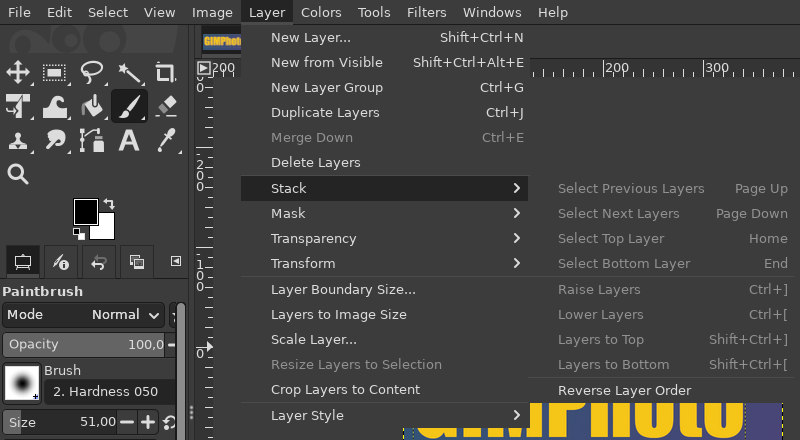
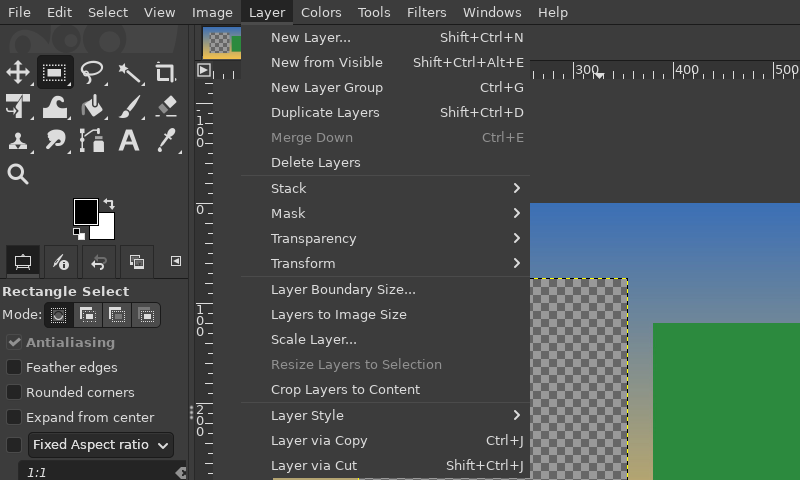
Layer via Copy / Cut on Ctrl+J / Ctrl+Shift+J (#15)
New plug-in plugins/layer-via: with a selection, a new layer from the
selected area, in place (Cut also clears it from the original, which gets
transparency); without one, Layer via Copy duplicates the layers. The
selection is dropped and the new layer selected, as in Photoshop.

The keymap moves Ctrl+J from Duplicate Layers (back on GIMP's
Shift+Ctrl+D) to gimphoto-layer-via-copy and adds Ctrl+Shift+J;
tools/make_keymap.py accepts GIMPhoto's own plug-in procedures as
actions. Smoke test: tests/smoke_layer_via.py.

diff --git a/plugins/layer-via/layer-via.py b/plugins/layer-via/layer-via.py
@@ -1,0 +1,73 @@
+#!/usr/bin/env python3
+#
+# Layer via Copy / Layer via Cut: Photoshop's Ctrl+J and Ctrl+Shift+J.
+#
+#   Layer > Layer via Copy    new layer from the selected area (no selection:
+#                             duplicate the layer)
+#   Layer > Layer via Cut     the same, and clear that area from the layer
+#
+# GIMPhoto's default shortcuts (defaults/photoshop-keymap.tsv) put them on
+# Ctrl+J and Ctrl+Shift+J. Each is one undo step. Logic: layer_via.py.
+#
+# This program is free software: you can redistribute it and/or modify
+# it under the terms of the GNU General Public License as published by
+# the Free Software Foundation; either version 3 of the License, or
+# (at your option) any later version.
+
+import os
+import sys
+
+import gi
+
+gi.require_version("Gimp", "3.0")
+from gi.repository import Gimp, GLib
+
+sys.path.insert(0, os.path.dirname(os.path.abspath(__file__)))
+from layer_via import layer_via
+
+COPY_PROC = "gimphoto-layer-via-copy"
+CUT_PROC = "gimphoto-layer-via-cut"
+MENU = "<Image>/Layer"
+
+
+def run(procedure, run_mode, image, drawables, config, data):
+    image.undo_group_start()
+    try:
+        layer_via(image, cut=procedure.get_name() == CUT_PROC)
+    except ValueError as e:
+        return procedure.new_return_values(Gimp.PDBStatusType.EXECUTION_ERROR, GLib.Error(str(e)))
+    finally:
+        image.undo_group_end()
+    Gimp.displays_flush()
+    return procedure.new_return_values(Gimp.PDBStatusType.SUCCESS, GLib.Error())
+
+
+class LayerVia(Gimp.PlugIn):
+    def do_set_i18n(self, procname):
+        return False
+
+    def do_query_procedures(self):
+        return [COPY_PROC, CUT_PROC]
+
+    def do_create_procedure(self, name):
+        procedure = Gimp.ImageProcedure.new(self, name, Gimp.PDBProcType.PLUGIN, run, None)
+        procedure.set_image_types("*")
+        procedure.set_attribution("GIMPhoto", "GIMPhoto contributors", "2026")
+        if name == COPY_PROC:
+            # several layers: duplicated, as Ctrl+J without a selection
+            procedure.set_sensitivity_mask(
+                Gimp.ProcedureSensitivityMask.DRAWABLE | Gimp.ProcedureSensitivityMask.DRAWABLES
+            )
+            label = "Layer via _Copy"
+            blurb = "New layer from the selected area (no selection: duplicate the layer)"
+        else:
+            procedure.set_sensitivity_mask(Gimp.ProcedureSensitivityMask.DRAWABLE)
+            label = "Layer via Cu_t"
+            blurb = "New layer from the selected area, cleared from the layer"
+        procedure.set_menu_label(label)
+        procedure.set_documentation(blurb, blurb + " (Photoshop's Layer via Copy / Cut).", name)
+        procedure.add_menu_path(MENU)
+        return procedure
+
+
+Gimp.main(LayerVia.__gtype__, sys.argv)

diff --git a/tests/smoke_layer_via.py b/tests/smoke_layer_via.py
@@ -1,0 +1,62 @@
+# Run by scripts/smoke inside the installed GIMPhoto (python-fu-eval):
+# Layer via Copy / Cut (Photoshop's Ctrl+J / Ctrl+Shift+J) on an opaque
+# layer, as opened from a JPEG. Writes "ok" or a reason to the file in
+# GIMPHOTO_SMOKE_OUT.
+import os
+import sys
+
+sys.path.insert(0, os.environ.get("GIMPHOTO_LAYER_VIA", "/app/lib/gimp/3.0/plug-ins/layer-via"))
+from gi.repository import Gegl, Gimp
+
+from layer_via import layer_via
+
+
+def setup():
+    img = Gimp.Image.new(300, 200, Gimp.ImageBaseType.RGB)
+    layer = Gimp.Layer.new(img, "photo", 300, 200, Gimp.ImageType.RGB_IMAGE, 100, Gimp.LayerMode.NORMAL)
+    img.insert_layer(layer, None, 0)
+    Gimp.context_set_foreground(Gegl.Color.new("#0000ff"))
+    layer.edit_fill(Gimp.FillType.FOREGROUND)
+    img.select_rectangle(Gimp.ChannelOps.REPLACE, 50, 40, 60, 30)
+    return img, layer
+
+
+def alpha(drawable, x, y):
+    return drawable.get_pixel(x, y).get_rgba()[3]
+
+
+def check():
+    img, layer = setup()
+    (new,) = layer_via(img)
+    if len(img.get_layers()) != 2 or img.get_layers()[0] != new:
+        return "copy: the new layer is not above the original"
+    if (new.get_offsets()[1:], new.get_width(), new.get_height()) != ((50, 40), 60, 30):
+        return f"copy: new layer is not the selected area: {new.get_offsets()[1:]} {new.get_width()}x{new.get_height()}"
+    if alpha(new, 10, 10) < 0.99 or alpha(layer, 60, 50) < 0.99:
+        return "copy: pixels missing"
+    if not Gimp.Selection.is_empty(img) or img.get_selected_layers() != [new]:
+        return "copy: selection not dropped or new layer not selected"
+
+    img, layer = setup()
+    (new,) = layer_via(img, cut=True)
+    if alpha(new, 10, 10) < 0.99:
+        return "cut: new layer is empty"
+    if alpha(layer, 60, 50) > 0.01 or alpha(layer, 10, 10) < 0.99:
+        return "cut: the area was not cleared (only it) from the original"
+    if len(img.get_channels()) != 0:
+        return "cut: a saved selection channel was left in the image"
+
+    img, layer = setup()
+    Gimp.Selection.none(img)
+    (new,) = layer_via(img)
+    if (new.get_width(), new.get_height()) != (300, 200):
+        return "no selection: the layer was not duplicated whole"
+    try:
+        layer_via(img, cut=True)
+        return "no selection: Layer via Cut did something"
+    except ValueError:
+        pass
+    return "ok"
+
+
+open(os.environ["GIMPHOTO_SMOKE_OUT"], "w").write(check() + "\n")

diff --git a/plugins/layer-via/layer_via.py b/plugins/layer-via/layer_via.py
@@ -1,0 +1,60 @@
+"""Photoshop's Layer via Copy (Ctrl+J) and Layer via Cut (Ctrl+Shift+J).
+
+With a selection, the new layer holds only the selected part of the layer,
+in place, above it; Layer via Cut also clears that part of the layer.
+Without one, Layer via Copy duplicates the selected layers (Photoshop's
+Ctrl+J without a selection). The selection is dropped afterwards and the
+new layer selected, as in Photoshop. Used by layer-via.py; kept apart so
+the smoke test can run it headless.
+"""
+
+from gi.repository import Gimp
+
+
+def layer_via(image, cut=False):
+    """Make the new layer(s); return them. Raises ValueError with the
+    message to show when there is nothing to do."""
+    layers = list(image.get_selected_layers())
+    if not layers:
+        raise ValueError("Select a layer.")
+
+    if Gimp.Selection.is_empty(image):
+        if cut:
+            raise ValueError("Layer via Cut needs a selection.")
+        copies = []
+        for layer in layers:
+            copy = layer.copy()
+            image.insert_layer(copy, layer.get_parent(), image.get_item_position(layer))
+            copies.append(copy)
+        image.set_selected_layers(copies)
+        return copies
+
+    if len(layers) != 1 or layers[0].is_group():
+        raise ValueError("Select one layer that is not a group.")
+    layer = layers[0]
+    # the selection's bounds inside the layer, relative to the layer
+    inside, x, y, width, height = layer.mask_intersect()
+    if not inside:
+        raise ValueError("The selected area is empty.")
+
+    new = layer.copy()
+    image.insert_layer(new, layer.get_parent(), image.get_item_position(layer))
+    if not new.has_alpha():
+        new.add_alpha()
+    saved = Gimp.Selection.save(image)
+    try:
+        # keep only what is selected
+        Gimp.Selection.invert(image)
+        new.edit_clear()
+        image.select_item(Gimp.ChannelOps.REPLACE, saved)
+        new.resize(width, height, -x, -y)
+        if cut:
+            # Photoshop layers have transparency where the cut was
+            if not layer.has_alpha():
+                layer.add_alpha()
+            layer.edit_clear()
+    finally:
+        image.remove_channel(saved)
+    Gimp.Selection.none(image)
+    image.set_selected_layers([new])
+    return [new]

diff --git a/tools/make_keymap.py b/tools/make_keymap.py
@@ -26,6 +26,10 @@ sys.path.insert(0, str(Path(__file__).resolve().parent))
 from gimp_default_accels import default_accels
 
 ROOT = Path(__file__).resolve().parent.parent
+PLUGINS = ROOT / "plugins"
+# GIMPhoto's plug-in procedures, which are GIMP actions of the same name:
+# NAME_PROC = "gimphoto-..." in plugins/<name>/<name>.py
+PROC = re.compile(r'^[A-Z_]*PROC\s*=\s*"(gimphoto-[a-z0-9-]+)"', re.M)
 KEYMAP = ROOT / "defaults" / "photoshop-keymap.tsv"
 OUTPUT = ROOT / "defaults" / "shortcutsrc"
 DOC = ROOT / "docs" / "features" / "photoshop-shortcuts.md"
@@ -73,6 +77,14 @@ def normalize(accel):
         mods.add(MODIFIERS[mod.lower()])
     order = ["<Primary>", "<Alt>", "<Shift>", "<Super>"]
     return "".join(mod for mod in order if mod in mods) + m.group(2).lower()
+
+
+def plugin_actions():
+    """GIMPhoto's own plug-in procedures, as actions without shortcuts."""
+    names = []
+    for path in sorted(PLUGINS.glob("*/*.py")):
+        names += PROC.findall(path.read_text())
+    return {name: [] for name in names}
 
 
 def read_keymap(text):
@@ -175,7 +187,7 @@ def main(argv):
     source = Path(args[0] if args else ROOT / "work" / "gimp")
     if not (source / "app" / "actions").is_dir():
         sys.exit(f"{source} is not a GIMP source tree (run scripts/source)")
-    defaults = default_accels(source)
+    defaults = {**default_accels(source), **plugin_actions()}
     try:
         keymap = read_keymap(KEYMAP.read_text())
         text = render(build(keymap, defaults))

diff --git a/tests/test_keymap.py b/tests/test_keymap.py
@@ -126,6 +126,19 @@ class TheRealKeymap(unittest.TestCase):
             self.assertIn(f'(action "{action}" "{accels[0]}"', text)
 
 
+class PluginActions(unittest.TestCase):
+    def test_gimphotos_own_procedures_are_actions(self):
+        actions = make_keymap.plugin_actions()
+        self.assertEqual(actions.get("gimphoto-layer-via-copy"), [])
+        self.assertEqual(actions.get("gimphoto-layer-via-cut"), [])
+
+    def test_ctrl_j_is_layer_via_copy(self):
+        rows = make_keymap.read_keymap(make_keymap.KEYMAP.read_text())
+        keys = {make_keymap.normalize(a): action for action, accels, _ in rows for a in accels}
+        self.assertEqual(keys["<Primary>j"], "gimphoto-layer-via-copy")
+        self.assertEqual(keys["<Primary><Shift>j"], "gimphoto-layer-via-cut")
+
+
 class DocsTable(unittest.TestCase):
     def test_only_the_part_between_markers_changes(self):
         doc = f"intro\n{make_keymap.DOC_START}old\n{make_keymap.DOC_END}\noutro\n"

diff --git a/docs/features/layer-via-copy-cut.md b/docs/features/layer-via-copy-cut.md
@@ -1,0 +1,69 @@
+# Layer via Copy / Layer via Cut (Ctrl+J / Ctrl+Shift+J)
+
+**Issue:** [#15](https://github.com/diegochagas/gimphoto/issues/15) ·
+**Plug-in:** [`plugins/layer-via/`](../../plugins/layer-via/) ·
+**Keymap:** [`defaults/photoshop-keymap.tsv`](../../defaults/photoshop-keymap.tsv)
+
+In Photoshop, Ctrl+J with a selection makes a new layer from just the
+selected area, in place (*Layer > New > Layer via Copy*), and Ctrl+Shift+J
+does the same and removes that area from the original (*Layer via Cut*).
+GIMP has neither: its closest command, Duplicate Layers, ignores the
+selection. GIMPhoto adds both, with Photoshop's keys.
+
+## Before and after
+
+Ctrl+J with a rectangle selected:
+
+| Before (Duplicate Layers: the whole layer) | GIMPhoto (Layer via Copy: the selected area) |
+|---|---|
+| ![Ctrl+J duplicating the whole layer](../images/layer-via-before.png) | ![Ctrl+J making a layer from the selection](../images/layer-via-copy.png) |
+
+Ctrl+Shift+J, the new layer hidden to show the hole the cut left in the original:
+
+![Layer via Cut](../images/layer-via-cut.png)
+
+## Use
+
+1. Select an area on a layer (any selection tool).
+2. **Ctrl+J** (*Layer > Layer via Copy*): a new layer above it with only
+   that area, at the same place. **Ctrl+Shift+J** (*Layer > Layer via Cut*):
+   the same, and the area becomes transparent in the original layer.
+
+As in Photoshop, the selection is dropped and the new layer is selected.
+Each command is one undo step.
+
+| Case | What happens |
+|---|---|
+| No selection, Ctrl+J | The selected layers are duplicated (Photoshop's Ctrl+J without a selection) |
+| No selection, Ctrl+Shift+J | Nothing, with a message: Layer via Cut needs a selection |
+| Selection outside the layer | Nothing, with a message: the selected area is empty |
+| Group layer, or several layers with a selection | Nothing, with a message: select one layer that is not a group |
+| Layer without transparency (an opened JPEG) | It gets an alpha channel, so the cut leaves transparency, as Photoshop layers do |
+
+## What changed
+
+**Plug-in** [`plugins/layer-via/`](../../plugins/layer-via/), installed by
+the build as a system plug-in (no change to GIMP's code):
+
+- `layer-via.py` registers `gimphoto-layer-via-copy` and
+  `gimphoto-layer-via-cut` in the Layer menu;
+- `layer_via.py` does the work: duplicates the layer, clears it outside
+  the selection, crops it to the selection's bounds and, for Cut, clears
+  the selection from the original.
+
+**Keymap:** the two procedures are GIMP actions of the same name, so
+`defaults/photoshop-keymap.tsv` puts Ctrl+J and Ctrl+Shift+J on them;
+`tools/make_keymap.py` accepts `gimphoto-*` actions from `plugins/`.
+Duplicate Layers keeps GIMP's Shift+Ctrl+D.
+
+**Tests:** `tests/smoke_layer_via.py`, run by `scripts/smoke`: copy, cut,
+no selection, the new layer's place and size, the selection dropped.
+
+## Limits
+
+- Existing GIMPhoto profiles keep their saved shortcuts: reset them
+  (*Preferences > Interface > Reset Keyboard Shortcuts*, then restart), or
+  set Ctrl+J / Ctrl+Shift+J on *Layer via Copy* / *Layer via Cut* in
+  *Edit > Keyboard Shortcuts*.
+- The new layer keeps the original's name plus "copy", not Photoshop's
+  "Layer 1".

diff --git a/README.md b/README.md
@@ -17,7 +17,8 @@ it, before/after screenshots, what changed in GIMP's code, limits.
 |---|---|---|---|
 | **Layer Style (fx) button** in the Layers panel, opening a Photoshop-style Layer Style dialog (shadows, glows, stroke, bevel, overlays) | Layers panel › fx | core patch + plug-in | [layer-style-fx-button.md](docs/features/layer-style-fx-button.md) |
 | **Layer effects listed under each layer** in the Layers panel, collapsible, with an eye per effect and one for all | Layers panel › layer › Effects | core patch | [layer-effects-rows.md](docs/features/layer-effects-rows.md) |
-| **Photoshop shortcuts by default**: Ctrl+D deselects, Ctrl+J duplicates the layer, Ctrl+T transforms, V/M/L/W/B/S/E… pick the same tools, Ctrl+Tab switches images | Photoshop's default keyboard shortcuts | core patch + keymap | [photoshop-shortcuts.md](docs/features/photoshop-shortcuts.md) |
+| **Photoshop shortcuts by default**: Ctrl+D deselects, Ctrl+J / Ctrl+Shift+J make a layer via copy / cut, Ctrl+T transforms, V/M/L/W/B/S/E… pick the same tools, Ctrl+Tab switches images | Photoshop's default keyboard shortcuts | core patch + keymap | [photoshop-shortcuts.md](docs/features/photoshop-shortcuts.md) |
+| **Layer via Copy / Layer via Cut** (Ctrl+J / Ctrl+Shift+J): a new layer from the selected area, in place; Cut also removes it from the original | Layer › New › Layer via Copy / Cut | plug-in + keymap | [layer-via-copy-cut.md](docs/features/layer-via-copy-cut.md) |
 
 Apart from these, GIMPhoto is plain GIMP: its own user profile, GIMP's
 default theme and layout.
@@ -37,7 +38,7 @@ the canvas:
 ### Photoshop shortcuts by default
 
 Menus show Photoshop's shortcuts, and the keys do what they do in
-Photoshop (here Ctrl+J, Ctrl+G, Ctrl+E, Ctrl+] / Ctrl+[):
+Photoshop (here Ctrl+G, Ctrl+E, Ctrl+J and Shift+Ctrl+J, Shift+Ctrl+D for Duplicate Layers):
 
 ![GIMPhoto's Layer menu with Photoshop's shortcuts](docs/images/shortcuts-layer-menu.png)
 
@@ -46,6 +47,13 @@ Photoshop (here Ctrl+J, Ctrl+G, Ctrl+E, Ctrl+] / Ctrl+[):
 A layer's effects listed under it, collapsible, each with its own eye:
 
 ![A text layer's effects listed under it in GIMPhoto's Layers panel](docs/images/effects-rows-in-use.png)
+
+### Layer via Copy / Cut
+
+With a selection, Ctrl+J copies the selected area into a new layer, in
+place, and Ctrl+Shift+J cuts it out of the layer:
+
+![Layer via Cut: the selected area moved to its own layer](docs/images/layer-via-cut.png)
 
 ## Why a patched build?
 

diff --git a/docs/features/photoshop-shortcuts.md b/docs/features/photoshop-shortcuts.md
@@ -5,8 +5,8 @@
 **Keymap:** [`defaults/photoshop-keymap.tsv`](../../defaults/photoshop-keymap.tsv)
 
 GIMPhoto starts with Photoshop's keyboard shortcuts: **Ctrl+D** deselects
-(in GIMP it duplicates the whole image into a new tab), **Ctrl+J**
-duplicates the layer, **Ctrl+T** transforms, **V** is the Move tool,
+(in GIMP it duplicates the whole image into a new tab), **Ctrl+J** /
+**Ctrl+Shift+J** make a layer via copy / cut ([Layer via Copy / Cut](layer-via-copy-cut.md)), **Ctrl+T** transforms, **V** is the Move tool,
 **B** the brush, **Ctrl+L / M / U** open Levels, Curves and Hue-Saturation,
 and so on. Menus show the new shortcuts next to their entries, as GIMP's
 own did.
@@ -91,7 +91,8 @@ own GIMP shortcut too, unless Photoshop uses that key for something else.
 | Image > Image Size (Ctrl+Alt+I) | Ctrl+Alt+I | `image-scale` | – |
 | Image > Canvas Size (Ctrl+Alt+C) | Ctrl+Alt+C | `image-resize` | – |
 | Layer > New > Layer (Ctrl+Shift+N) | Ctrl+Shift+N | `layers-new` | Ctrl+Shift+N |
-| Layer > New > Layer via Copy (Ctrl+J) | Ctrl+J | `layers-duplicate` | Ctrl+Shift+D |
+| Layer > New > Layer via Copy (Ctrl+J; no selection: duplicate the layer) | Ctrl+J | `gimphoto-layer-via-copy` | – |
+| Layer > New > Layer via Cut (Ctrl+Shift+J) | Ctrl+Shift+J | `gimphoto-layer-via-cut` | – |
 | Layer > Group Layers (Ctrl+G) | Ctrl+G | `layers-new-group` | – |
 | Layer > Merge Down (Ctrl+E) | Ctrl+E | `layers-merge-down` | – |
 | Layer > Merge Visible (Ctrl+Shift+E) | Ctrl+Shift+E | `image-merge-layers` | Ctrl+M |
@@ -131,7 +132,8 @@ The ones a GIMP user will notice:
 | Ctrl+I | Select > Invert | Colors > Invert (Select > Invert: Ctrl+Shift+I) |
 | Ctrl+M | Image > Merge Visible Layers | Colors > Curves |
 | Ctrl+L | Layers dialog | Colors > Levels (Layers dialog: F7) |
-| Ctrl+J | View > Shrink Wrap | Layer > Duplicate |
+| Ctrl+J | View > Shrink Wrap | Layer > Layer via Copy (no selection: duplicate the layer) |
+| Ctrl+Shift+J | View > Zoom > Fit Image in Window | Layer > Layer via Cut (Fit in Window: Ctrl+0) |
 | Ctrl+G | Gradients dialog | Layer > New Layer Group |
 | Ctrl+B | Toolbox | Colors > Color Balance |
 | Ctrl+T | View > Show Selection | Free transform (Unified Transform); Show Selection: Ctrl+H |

diff --git a/plugins/README.md b/plugins/README.md
@@ -12,6 +12,7 @@ Each folder is one plug-in; GIMP runs the file named after the folder
 | Plug-in | Used by | Origin |
 |---|---|---|
 | `layer-style/` | The Layers panel's **fx** button ([docs](../docs/features/layer-style-fx-button.md)); also *Layer > Layer Style* | gimp-setup's [Layer Style](https://github.com/diegochagas/gimp-setup/blob/main/docs/LAYER_STYLE.md) plug-in |
+| `layer-via/` | Layer via Copy / Cut on Ctrl+J / Ctrl+Shift+J ([docs](../docs/features/layer-via-copy-cut.md)) | GIMPhoto |
 
 ## layer-style
 
